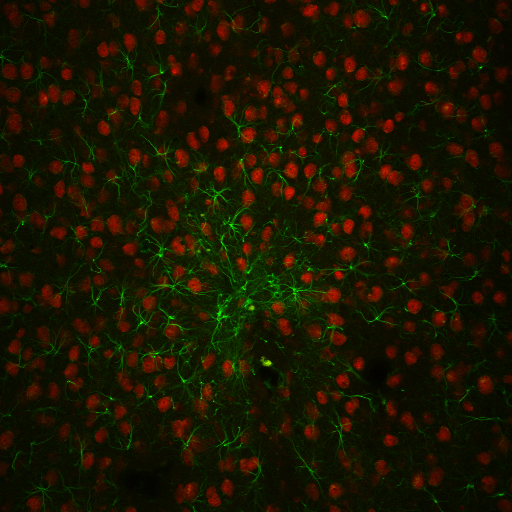
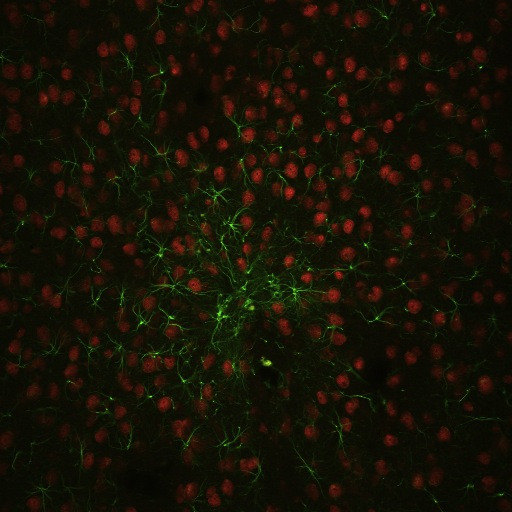
Optimized filesize

diff --git a/index.html b/index.html
@@ -42,9 +42,9 @@
 
 
         <h3>6-week implantations</h3>
-        <img src="NeuNGFAPglas20may24b.jpg" width="50%" height="50%" style="float:left" /> 
-        <img src="NeuNGFAPSW6VH11.jpg" width="50%" height="50%" "float:left"/> 
-        <img src="NeuNGFAPSW6VH13b.jpg" width="50%" height="50%" "float:left"/>
+        <img src="NeuNGFAPglas20may24b_thumb.jpg"  /> 
+        <img src="NeuNGFAPSW6VH11_thumb.jpg"  /> 
+        <img src="NeuNGFAPSW6VH13b_thumb.jpg" />
         <p>
           <span style="text-decoration:underline;">Top Left:</span> Sagittal implantation. Reactive astrogliosis, particularly in the 0-50 μm range, is massive and the hole left by the implant widened compared to the width of the implant itself.
         </p>
@@ -57,10 +57,10 @@
 
         <h3>Statistical analysis of 6-week implantations</h3>
         <p>
-          <img src="6 week GFAP 50mu.jpg" width="25%" height="25%" style="float:left" /> 
-          <img src="6 week GFAP 200mu.jpg" width="25%" height="25%" style="float:left" /> 
-          <img src="6 week NeuN 50mu.jpg" width="25%" height="25%" style="float:left" /> 
-          <img src="Kvot NeuN_Naiv 6w.jpg" width="25%" height="50%"/>         
+          <img src="6-week-GFAP-50mu.png" /> 
+          <img src="6-week-GFAP-200mu.png" /> 
+          <img src="6-week-NeuN-50mu.png" /> 
+          <img src="Kvot-NeuN_Naiv-6w.png" />         
           </p>
 
 
@@ -76,13 +76,13 @@
           Astroglial (green) response to coronal implants after 12 weeks were similar in uncoated (left) and coated (right) groups. However, the tendency of some implants to produce a “halo” lacking both neurons and astrocytes observed in the 6 week groups remained in the 12 week groups, exemplified by the image on the right. Note the segment of SU-8 still left in the slice in this section.
         </p>
         <p>  
-        <img src="NeuNGFAP12wH4suc6.jpg" width="50%" height="50%" "float:left"/>
-        <img src="NeuNGFAP12wH8gel2.jpg" width="50%" height="50%"/>
+        <img src="NeuNGFAP12wH4suc6_thumb.jpg" />
+        <img src="NeuNGFAP12wH8gel2_thumb.jpg"/>
         </p>
 
         <h3>Statistical analysis of 12-week implantations</h3>
-        <img src="12 week NeuN 50mu.jpg" width="40%" height="40%" "float:left"/>
-        <img src="Kvot NeuN_Naiv 12w.jpg" width="50%" height="50%" "float:left"/>
+        <img src="12-week-NeuN-50mu.png" />
+        <img src="Kvot-NeuN_Naiv-12w.png" />
 
         <p>
           Quantitative analysis of neuronal counts at 12 weeks. Coated implants had slightly higher neuronal counts, in absolute numbers, than did uncoated. When compared to naive area of cerebral cortex (right graph), the relative survival of neurons could be quantified.
@@ -90,9 +90,9 @@
 
         <h3>RIP and NF200</h3>
         <p>
-        <img src="0629.jpg" width="50%" height="50%" "float:left"/>
-        <img src="0636.jpg" width="50%" height="50%" "float:right"/>
-        <img src="0668.jpg" width="50%" height="50%" "float:left"/>
+        <img src="0629.jpg" />
+        <img src="0636.jpg" style="float:right"/>
+        <img src="0668.jpg" />
 
         </p>  
 
